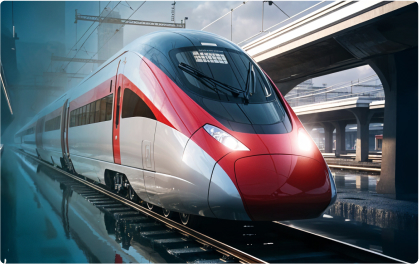
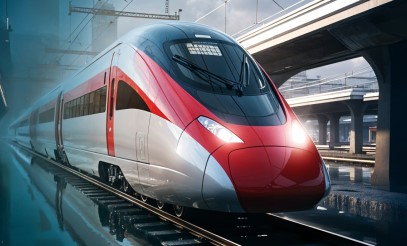
client feedback Implementation

diff --git a/src/app/_home/05_highlights.tsx b/src/app/_home/05_highlights.tsx
@@ -10,64 +10,67 @@ import { useHeader } from "@/context/useHeader";
 import Link from "next/link"
 
 const newsletters = [
-   {
+    {
+      id: 28,
+    img: "/assets/archive/newsletter/crunching.png",
+    category: "Volume 28",
+    title: "Crunching Data,Analysing Information",
+    sectors: "",
+     date: "September 2025",
+    link: "/assets/pdf/crunchingData.pdf",
+  },
+  {
+    id: 27,
+    img: "/assets/archive/newsletter/agustNewsletter.png",
+    category: "Volume 27",
+    title: "TIF reaches out to stakeholders",
+    sectors: "",
+    date: "August 2025",
+    link: "/assets/pdf/augustNewsletter.pdf",
+  },
+  {
     id: 25,
     img: "/assets/archive/newsletter/latest1.png",
     category: "Volume 26",
-    title: "Do you want to be an Infrapandit? ",
+    title: "Do you want to be an Infrapandit?",
+    sectors: "",
     date: "July 2025",
+
     link: "/assets/pdf/july.pdf",
   },
-   {
-    id: 26,
-    img: "/assets/archive/newsletter/latest2.png",
-    category: "Volume 25",
-    title: "Transforming Cities into Frontiers for Economic Growth",
-    date: "June 2025",
-    link: "/assets/pdf/june2025.pdf",
-  },
-
-  {
-    id: 1,
-    img: "/assets/archive/newsletter/newsletter1.png",
-    category: "Volume 24",
-    title: "Making change happen",
-    date: "May 2025",
-    link: "/assets/pdf/letter1.pdf",
-  },
- 
+  
 ];
 
 const news = [
+    {
+    id:55,
+    img: "/assets/knowledeg/researchPapers/02.jpg",
+    category: "News",
+    title: "Next game changer: High-speed rail",
+    date: "Sepetember 19, 2025",
+    subtitle: "Next game changer: High-speed rail",
+    link: "/assets/pdf/speedRail.jpg",
+  },
   {
-    id:50,
-    img: "/assets/archive/newsAndMedia/coal.jpg",
+    id:54,
+    img: "/assets/archive/newsAndMedia/vrinda.png",
     category: "News",
-    title: "Coal, Clean, Air and  a Welcome Resolution",
-    date: "July 18,2025",
-    subtitle: "Vinayak Chatterjee",
-    link: "/assets/pdf/coalClean.pdf",
+    title: "Cold Rooms in Local Markets: Securing Farmers, Delivering Nutrition",
+    date: "August 9, 2025",
+    subtitle: "Vrinda Singh and Priyanka Bains",
+    link: "/assets/pdf/vrinda-singh-priyanka-bains.pdf",
   },
- {
-    id:49,
-    img: "/assets/archive/newsAndMedia/ropeway.jpg",
+  {
+    id:53,
+    img: "/assets/archive/newsAndMedia/hyderbad.webp",
     category: "News",
-    title: "Long haul:A national ropeway policy would aid urban mobility",
-    
-    date: "July 18, 2025",
-    subtitle: "Kaveree Bamzai",
-    link: "/assets/archive/newsAndMedia/kaveeryMamRopways.jpeg",
-  },
+    title: "Hyderabad's FSI deregulation:  A missed opportunity",
+    date: "August 9, 2025",
+    subtitle: "Dr. Mutum Chaobisana",
+    link: "/assets/pdf/hyderabad-fSI-deregulation.pdf",
+  }
+  
 
-   {
-    id:48,
-    img: "/assets/archive/newsAndMedia/planning.jpeg",
-    category: "News",
-    title: "Why India needs a National Plan for building new cities",   
-    date: "May 26, 2025",
-    subtitle: "Jagan Shah",
-    link: "/assets/pdf/nationPlan.jpeg",
-  },
 ];
 
 export default function Highlights() {

diff --git a/src/app/_home/updates.tsx b/src/app/_home/updates.tsx
@@ -10,7 +10,7 @@ import { Navigation, Autoplay, Pagination } from "swiper/modules";
 import img_12 from "@/../public/assets/outreach-and-engagements/eventImages/august18_2025_Img4.jpeg"
 import Link from "next/link";
 import img_15 from "@/../public/assets/knowledeg/blogs/01.jpg"
-import img_16 from "@/../public/assets/archive/newsAndMedia/hyderbad.webp"
+import img_16 from "@/../public/assets/knowledeg/researchPapers/02.jpg"
 import img2 from "@/../public/assets/knowledeg/conversations/02.png";
 import img10 from "@/../public/assets/knowledeg/conversations/10.png";
 import img_17 from "@/../public/assets/knowledeg/researchPapers/14.png";
@@ -153,28 +153,14 @@ export default function Updates() {
 }
 
 const EventsDetails = [
+
   {
 
     image: img_16,
     category: "News",
-    title: "Hyderabad's FSI deregulation:  A missed opportunity",
+    title: "Next game changer: High-speed rail",
     btnTitle: "Read more",
-    link: "/assets/pdf/hyderabad-fSI-deregulation.pdf",
-  },
-  {
-    image: img_17,
-    category: "Research Report",
-    title: "Impact of FSI Deregulation in Hyderabad",
-    btnTitle: "Read more",
-    link: "/assets/pdf/report-fsi-deregulation-in-hyderabad.pdf",
-  },
-  {
-
-    image: img_16,
-    category: "News",
-    title: "Cold Rooms in Local Markets: Securing Farmers, Delivering Nutrition",
-    btnTitle: "Read more",
-    link: "/assets/pdf/vrinda-singh-priyanka-bains.pdf",
+    link: "/assets/pdf/speedRail.jpg",
   },
   {
     image: img_15,
@@ -184,13 +170,24 @@ const EventsDetails = [
     link: "/blogs/how-to-make-india-highways-safe",
   },
 
-  {
-    image: img_12,
-    category: "Event",
-    title: "HSR will be the next growth multiplier",
-    btnTitle: "See details",
-    link: "/outreach-and-engagements",
+    {
+      
+    image: img10,
+    category: "Video",
+    title: "Why Smaller Cities can become Growth Hubs",
+    btnTitle: "Watch video",
+    link: "https://www.youtube.com/embed/ZGIjUOfs91U?si=-iX4ss69vegjRpoQ",
+
   },
+  {
+    image: img_17,
+    category: "Research Report",
+    title: "Impact of FSI Deregulation in Hyderabad",
+    btnTitle: "Read more",
+    link: "/assets/pdf/report-fsi-deregulation-in-hyderabad.pdf",
+  },
+ 
+
 
   {
     image: img2,
@@ -200,16 +197,8 @@ const EventsDetails = [
     link: "https://www.youtube.com/embed/NJ0V0G7eZwE?si=Mp_0ul6iDz5QtJN4",
 
   },
-  {
-    image: img10,
-    category: "Video",
-    title: "Why Smaller Cities can become Growth Hubs",
-    btnTitle: "Watch video",
-    link: "https://www.youtube.com/embed/ZGIjUOfs91U?si=-iX4ss69vegjRpoQ",
 
-  },
-
-
+  
 
 ];
 

diff --git a/src/app/_home/infraPanditAward.tsx b/src/app/_home/infraPanditAward.tsx
@@ -1,14 +1,14 @@
 "use client";
 
 import Image from "next/image";
-import montek from "@/../public/assets/home/infrapanditAward.webp";
+import montek from "@/../public/assets/outreach-and-engagements/eventImages/august18_2025_Img4.jpeg"
 import { BorderGrayHeroBtn } from "@/_components/atoms/buttons";
 
 export default function InfrapanditAward({ ctaText = "See details", link = "/infrapandit-awards" }: { ctaText?: string, link?: string }) {
   return (
     <>
       <div className="relative  bg-white  rounded-lg   flex flex-col sm:flex-row items-cente sm:gap-4 md:gap-7 xl:gap-10 min-h-[22rem] lg:min-h-[25rem] overflow-hidden">
-        <div className="w-full h-auto sm:w-[45%] lg:w-[38%]  sm:p-5 ">
+        <div className="w-full h-[12rem] md:h-[25rem] sm:w-[45%] lg:w-[38%]  sm:p-5 ">
           <Image
             src={montek}
             alt="Mr Montek Singh Ahluwalia"
@@ -17,16 +17,16 @@ export default function InfrapanditAward({ ctaText = "See details", link = "/inf
         </div>
         <div className=" px-3 py-6 xl:py-0 w-full sm:w-1/2 flex flex-col justify-center ">
           <h2 className="text-pink font-semibold lg:text-[42px]">
-            InfraPandit Awards
+           External engagement
           </h2>
 
           <div className="max-w-sm sm:pt-2 xlg:pt-6">
             <h2 className="font-medium pt-2 lg:pt-4 xl:pt-6">
-              Nurturing the Next Generation of Infra Talent and Ideas
+             HSR will be the next growth multiplier
             </h2>
 
             <div className=" mt-2 sm:mt-4">
-              <h4 className=" text-pink">Mumbai, June 20, 2025</h4>
+              <h4 className=" text-pink">August 18, 2025</h4>
               <div className="cursor-pointer mt-6">
                 <BorderGrayHeroBtn
                   text={ctaText}

diff --git a/src/app/archive/03_newsAndMedia.tsx b/src/app/archive/03_newsAndMedia.tsx
@@ -44,10 +44,20 @@ const INITIAL_VISIBLE_COUNT = 3;
 
 const allcards = [
   {
+    id:55,
+    img: "/assets/knowledeg/researchPapers/02.jpg",
+    category: "News",
+    title: "Vinayak Chatterjee",
+    sectors: "",
+    date: "Sepetember 19, 2025",
+    description: "Next game changer: High-speed rail",
+    link: "/assets/pdf/speedRail.jpg",
+  },
+  {
     id:54,
     img: "/assets/archive/newsAndMedia/vrinda.png",
     category: "News",
-    title: "Vrinda Singh and Priyanka Bains, Research Associates, The Infravision Foundation",
+    title: "Vrinda Singh and Priyanka Bains",
     sectors: "",
     date: "August 9, 2025",
     description: "Cold Rooms in Local Markets: Securing Farmers, Delivering Nutrition",
